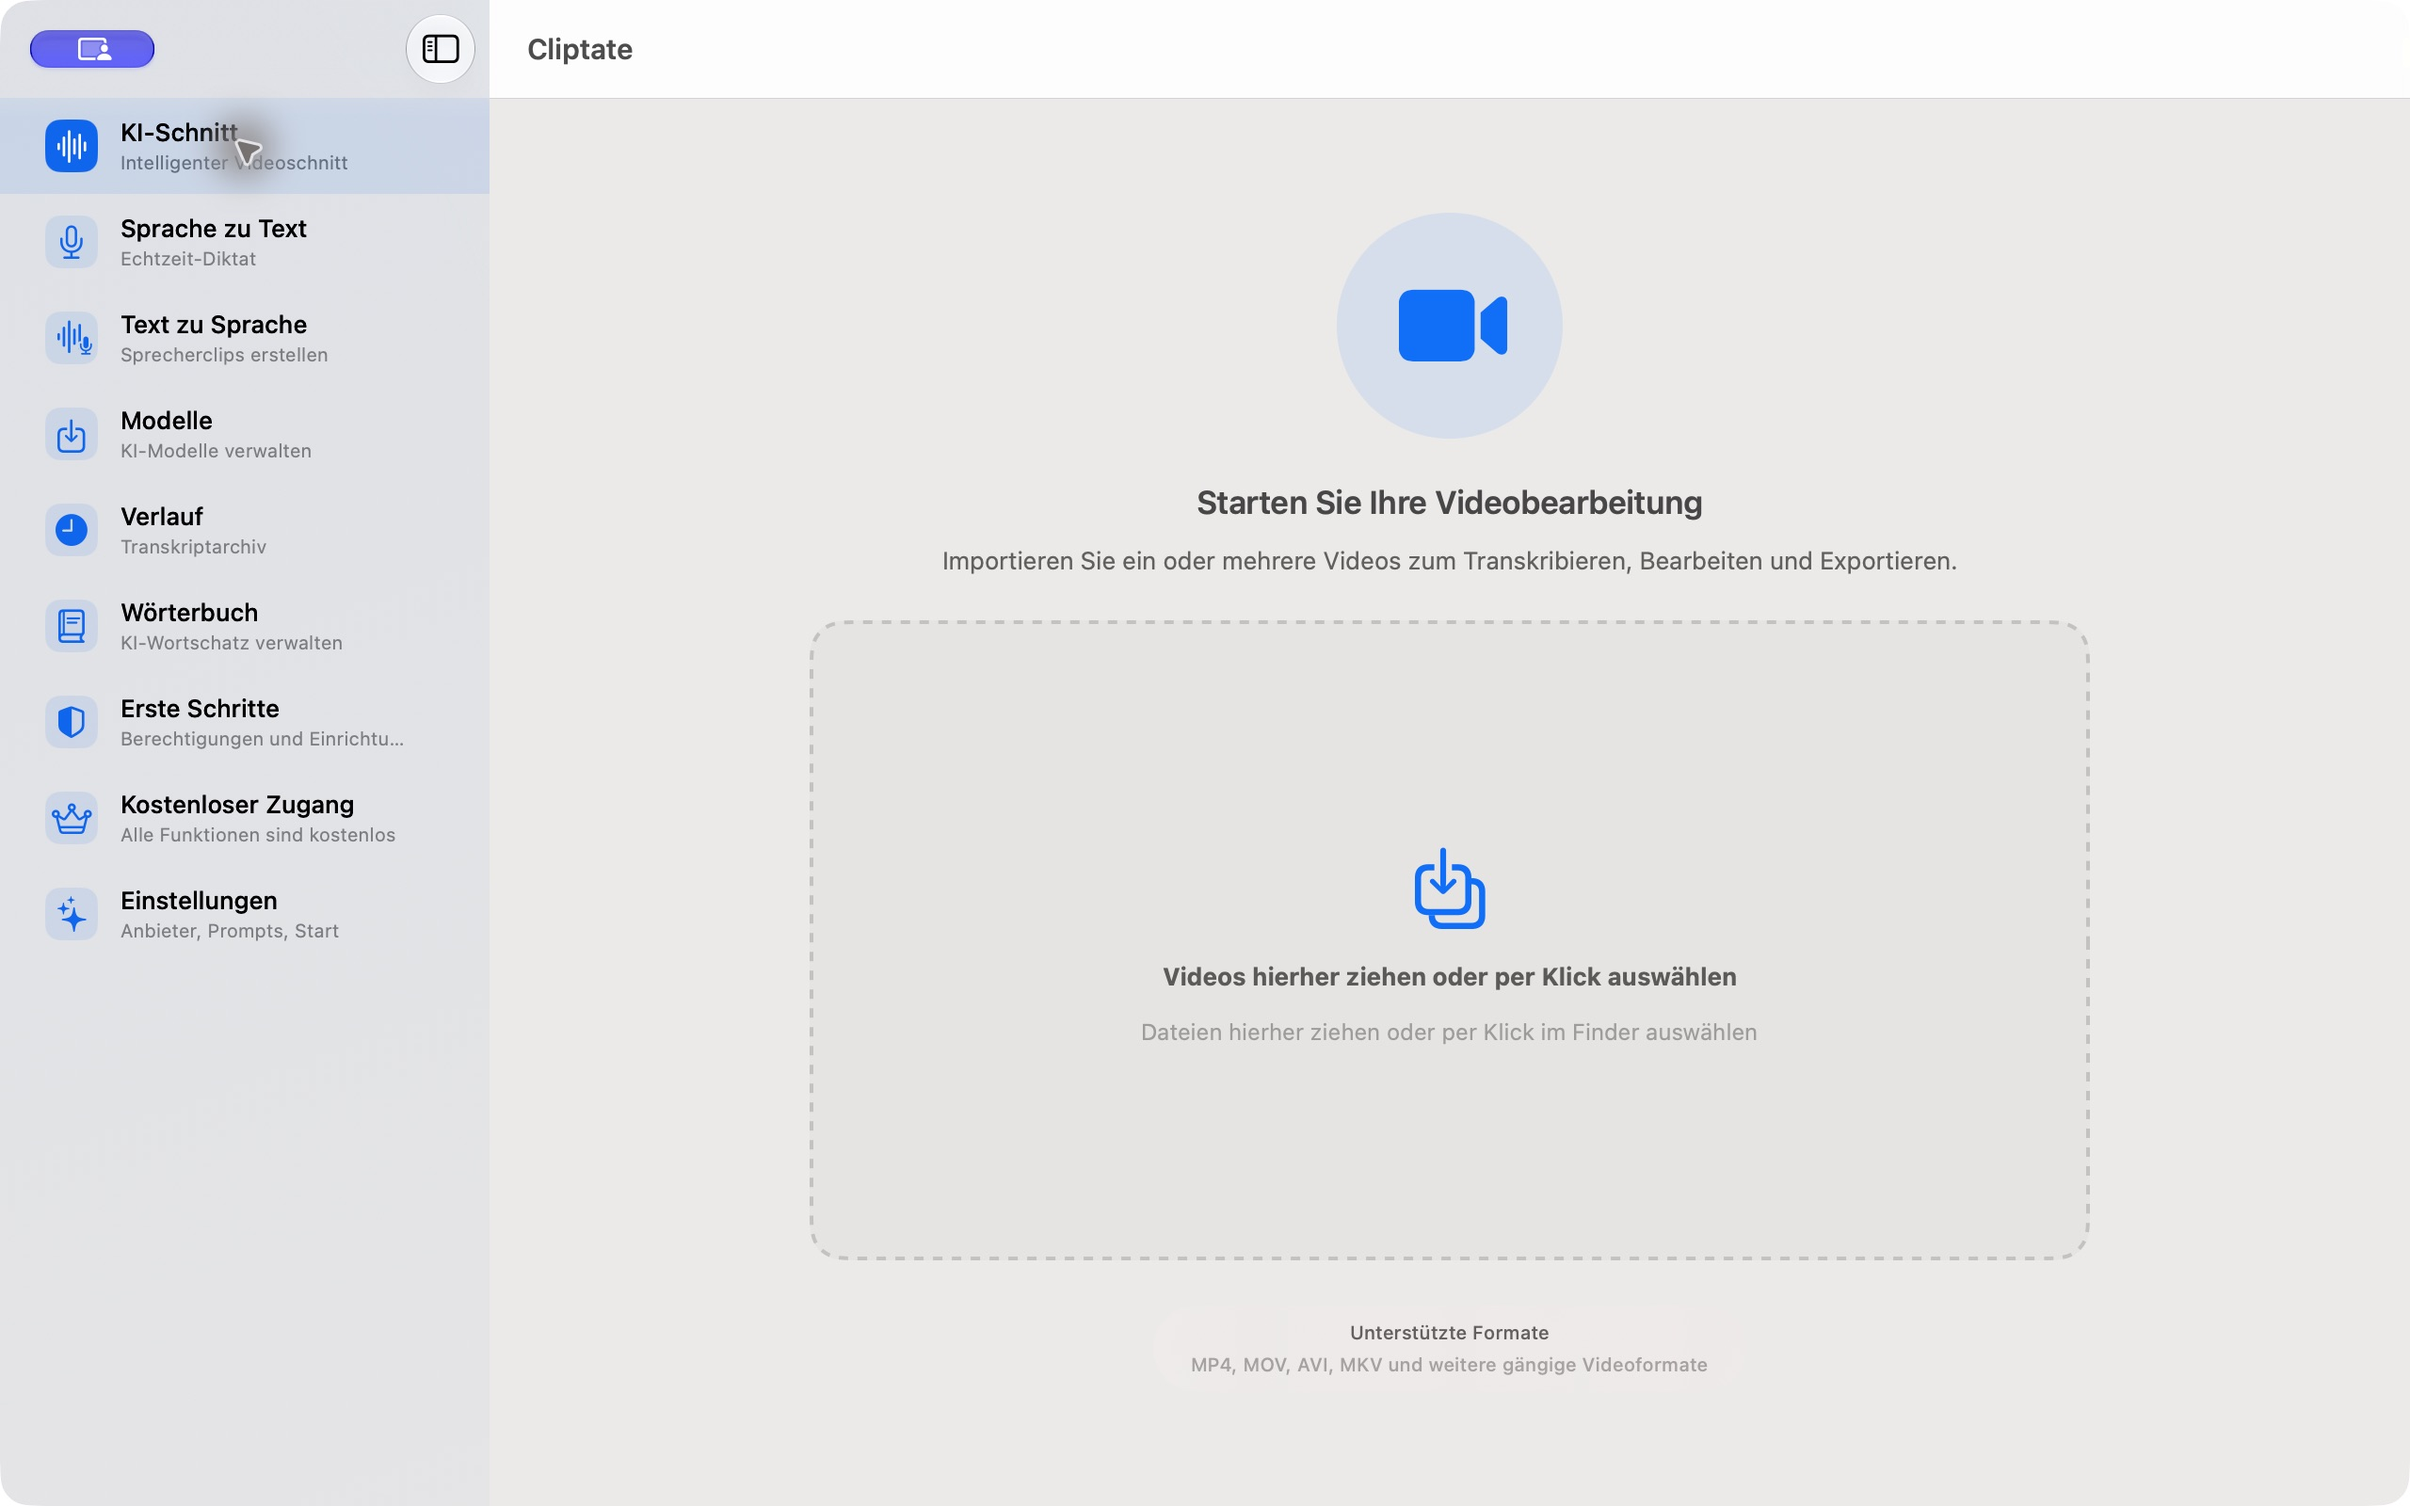
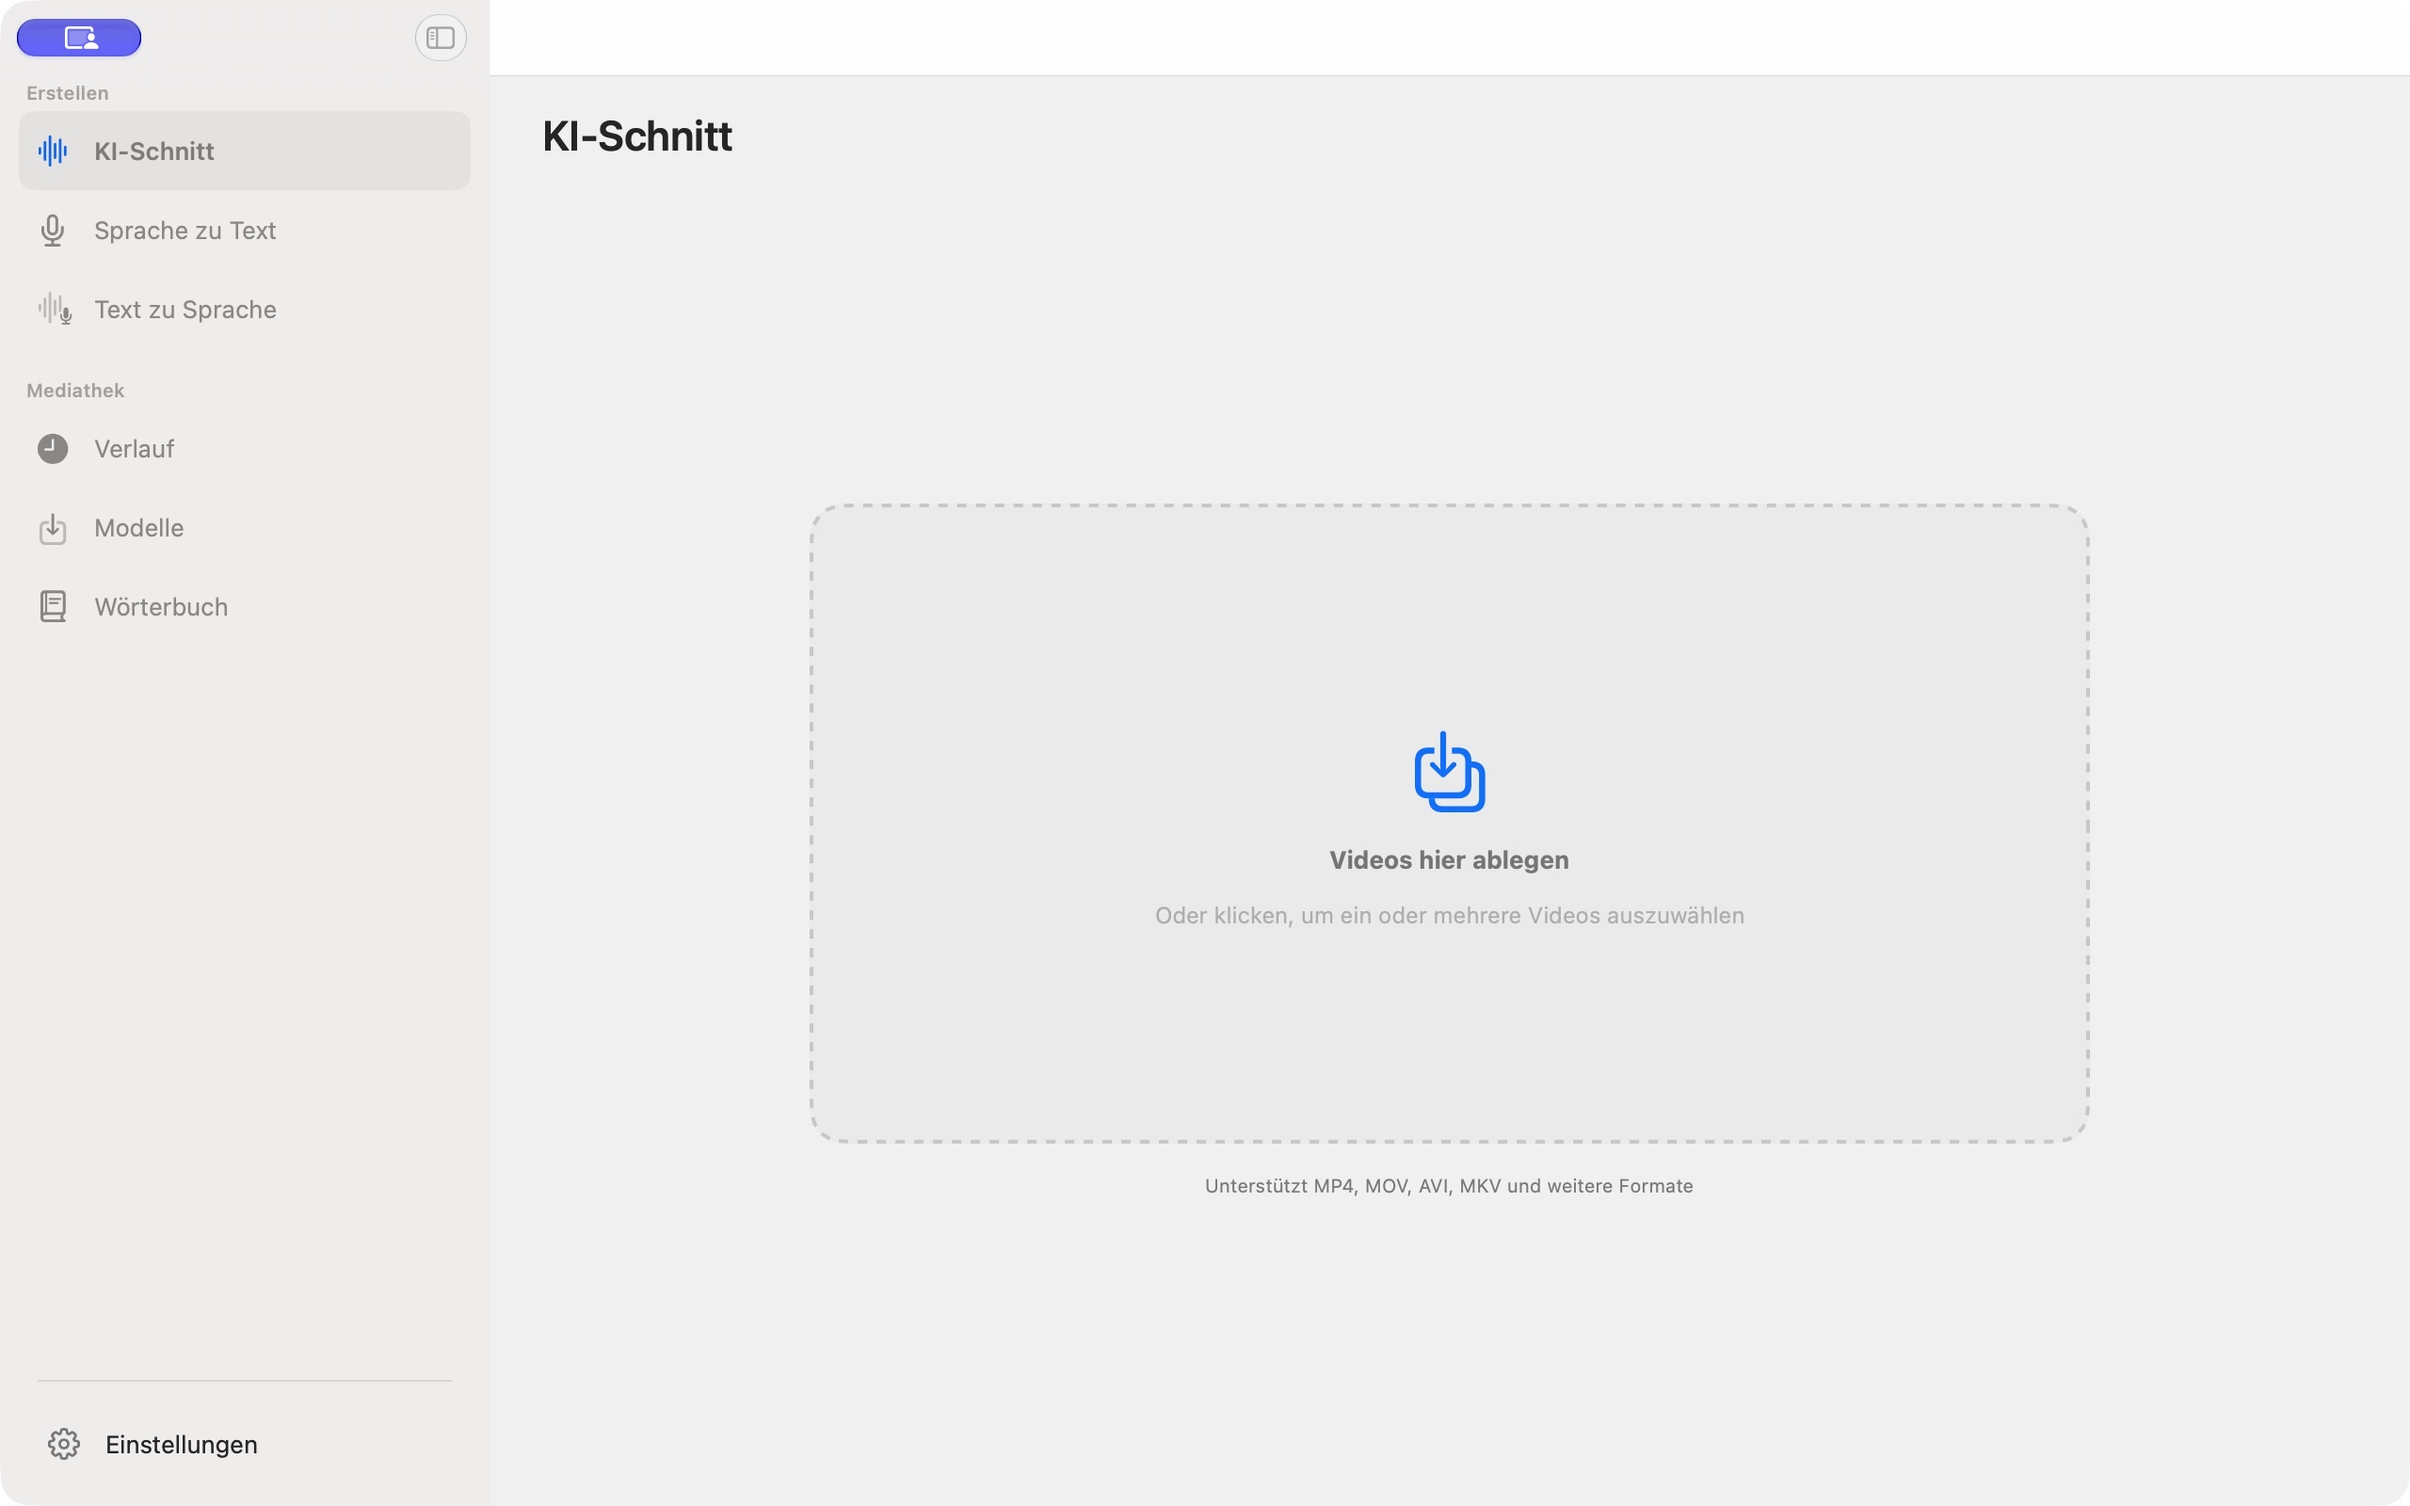
docs(site): refresh localized screenshots for light appearance

diff --git a/src/data/guide.ts b/src/data/guide.ts
@@ -22,8 +22,8 @@ export const guide = {
   releaseNotesUrl: 'https://github.com/cliptate/cliptate/tree/main/docs/release-notes',
   screenshot: {
     title: l('从一个原生 Mac 工作台开始。', 'Start in one native Mac workspace.', 'ひとつのネイティブ Mac アプリから。', '하나의 네이티브 Mac 작업 공간에서 시작하세요.', 'Ein nativer Mac-Arbeitsbereich als Ausgangspunkt.'),
-    caption: l('AI 剪辑、语音转文字、文字转语音、模型、历史和词典，都在同一个应用里。', 'AI Cut, Voice To Text, Text To Speech, models, history, and vocabulary in one app.', 'AI カット、音声入力、音声合成、モデル、履歴、辞書をひとつのアプリに。', 'AI 편집, 음성 전사, 음성 합성, 모델, 기록, 사전을 하나의 앱에서 사용하세요.', 'AI Cut, Sprache zu Text, Text zu Sprache, Modelle, Verlauf und Wörterbuch in einer App.'),
-    alt: l('Cliptate 中文主界面，显示 AI 剪辑导入区和功能侧栏', 'Cliptate English home screen with the AI Cut import area and feature sidebar', 'Cliptate 日本語ホーム画面の AI カット取り込みエリアと機能サイドバー', 'AI 편집 가져오기 영역과 기능 사이드바가 있는 Cliptate 한국어 홈 화면', 'Cliptate-Startseite auf Deutsch mit AI-Cut-Importbereich und Funktionsleiste'),
+    caption: l('浅灰色的原生 Mac 工作台，集成 AI 剪辑、语音转文字、文字转语音、模型、历史和词典。', 'A native Mac workspace with a light-gray background for AI Cut, Voice To Text, Text To Speech, models, history, and vocabulary.', 'ライトグレーのネイティブ Mac ワークスペースに、AI カット、音声入力、音声合成、モデル、履歴、辞書を集約。', '연한 회색 배경의 네이티브 Mac 작업 공간에서 AI 편집, 음성 전사, 음성 합성, 모델, 기록, 사전을 사용하세요.', 'Ein nativer Mac-Arbeitsbereich mit hellgrauem Hintergrund für KI-Schnitt, Sprache zu Text, Text zu Sprache, Modelle, Verlauf und Wörterbuch.'),
+    alt: l('Cliptate 简体中文浅色首页，显示浅灰色背景、AI 剪辑导入区和功能侧栏', 'Cliptate English home screen in light appearance, with a light-gray background, AI Cut import area, and feature sidebar', 'Cliptate 日本語ホーム画面のライトグレーの背景、AI カット取り込みエリア、機能サイドバー', '연한 회색 배경, AI 편집 가져오기 영역, 기능 사이드바가 있는 Cliptate 한국어 라이트 모드 홈 화면', 'Cliptate-Startseite auf Deutsch in heller Ansicht mit hellgrauem Hintergrund, KI-Schnitt-Importbereich und Funktionsleiste'),
   },
   models: {
     kicker: l('模型与日常使用', 'Models and everyday use', 'モデルと日々の作業', '모델과 일상 작업', 'Modelle und tägliche Arbeit'),

diff --git a/README.de.md b/README.de.md
@@ -6,6 +6,10 @@ Quellcode der [Cliptate-Website](https://cliptate.github.io). Die macOS-App lieg
 
 Transkribieren, Pausen schneiden, Untertitel bearbeiten und Sprache am Mac erzeugen. KI-Korrektur und Übersetzung bei Bedarf aktivieren. Die kostenlose GitHub-Version bietet alle Modelle, Pro-Funktionen und eine CLI.
 
+![Cliptate-Startseite für KI-Schnitt auf Deutsch mit hellgrauem Hintergrund](public/assets/screenshots/home.de.jpg)
+
+*Die helle Ansicht verwendet einen hellgrauen Seitenhintergrund.*
+
 ## Kernfunktionen
 
 - **Präzise, bearbeitbare Untertitel** — Parakeet, Qwen3 ASR, FireRed oder Cohere für lokale Audio- und Videotranskription wählen. Fachbegriffe im eigenen Wörterbuch ergänzen.

diff --git a/README.md b/README.md
@@ -6,6 +6,10 @@ Source for the [Cliptate website](https://cliptate.github.io). The macOS applica
 
 Transcribe, trim pauses, edit captions, and synthesize speech on your Mac. Enable AI correction and translation when needed. The free GitHub build unlocks all models and Pro features, with a CLI for scripts.
 
+![Cliptate AI Cut home screen in English with a light-gray background](public/assets/screenshots/home.en.jpg)
+
+*Light appearance with a light-gray page background.*
+
 ## Core capabilities
 
 - **Accurate, editable subtitle extraction** — Choose Parakeet, Qwen3 ASR, FireRed, or Cohere models for local audio/video transcription. Add custom vocabulary for specialist terms.

diff --git a/README.ja.md b/README.ja.md
@@ -6,6 +6,10 @@
 
 Mac で文字起こし、無音カット、字幕編集、音声合成。必要に応じて AI 校正や翻訳も利用できます。無料の GitHub 版は全モデルと Pro 機能を開放し、CLI でスクリプトと連携。
 
+![Cliptate AI カットのホーム画面（日本語）、ライトグレーの背景](public/assets/screenshots/home.ja.jpg)
+
+*ライトモードのページ背景はライトグレーです。*
+
 ## 主な機能
 
 - **正確で編集可能な字幕を生成** — Parakeet、Qwen3 ASR、FireRed、Cohere からモデルを選んでローカル文字起こし。専門用語はカスタム辞書で補助。

diff --git a/README.ko.md b/README.ko.md
@@ -6,6 +6,10 @@
 
 Mac에서 전사, 무음 제거, 자막 편집, 음성 합성을 처리하세요. 필요할 때 AI 교정과 번역을 사용하세요. 무료 GitHub 버전은 모든 모델과 Pro 기능, 스크립트용 CLI를 제공합니다.
 
+![연한 회색 배경의 Cliptate AI 컷 홈 화면 (한국어)](public/assets/screenshots/home.ko.jpg)
+
+*라이트 모드의 페이지 배경은 연한 회색입니다.*
+
 ## 핵심 기능
 
 - **정확하고 편집 가능한 자막 추출** — Parakeet, Qwen3 ASR, FireRed, Cohere 모델로 오디오와 비디오를 로컬 전사하고 사용자 사전으로 전문 용어 인식을 보완하세요.

diff --git a/README.zh.md b/README.zh.md
@@ -6,6 +6,10 @@
 
 在 Mac 上完成转写、去停顿、字幕编辑和语音合成，按需启用 AI 纠错与翻译。免费 GitHub 版开放全部模型和 Pro 功能，也能通过 CLI 接入脚本。
 
+![Cliptate AI 剪辑首页（简体中文），浅灰色背景](public/assets/screenshots/home.zh.jpg)
+
+*浅色外观采用浅灰色页面背景。*
+
 ## 核心能力
 
 - **字幕提取精准且可编辑** — 选择 Parakeet、Qwen3 ASR、FireRed 或 Cohere 模型，在 Mac 上转写音视频；使用词典辅助专有词识别。
